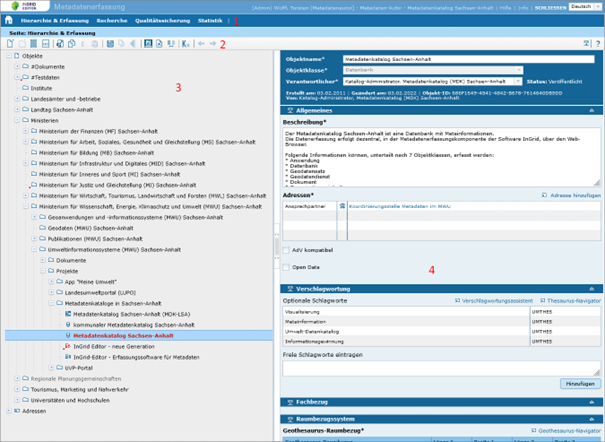
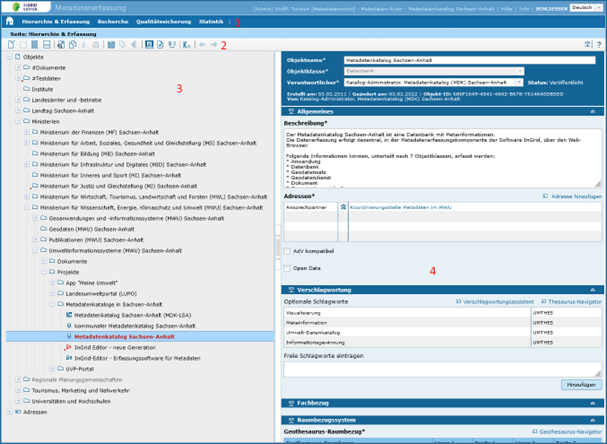
Aktualisierung

Changed region(s): [[0.0, 0.0, 1.0, 1.0], [0.476, 0.6471, 0.595, 0.8235], [0.2678, 0.4412, 0.3273, 0.5]]

diff --git a/docs/metaver_ige/ige_ingrid-editor/ingrid-editor.rst b/docs/metaver_ige/ige_ingrid-editor/ingrid-editor.rst
@@ -12,7 +12,10 @@ Die Benutzeroberfläche setzt sich zusammen aus:
 3. Strukturbaum
 4. Erfassungsmaske
 
-[Grafik]
+  .. image:: ../../img_ige/metaver_ige/ige_icons/objekte/portal/ige-benutzeroberlaeche.png
+	
+Abb.: Benutzeroberfläche des InGrid Editors
+
 
 Strukturbaum
 ------------
